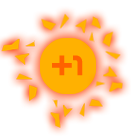
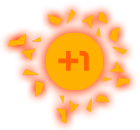
Ajout animation touch

diff --git a/core/src/com/borombo/game/Sprites/SimpleCircle.java b/core/src/com/borombo/game/Sprites/SimpleCircle.java
@@ -1,32 +1,56 @@
 package com.borombo.game.Sprites;
 
 import com.badlogic.gdx.graphics.Texture;
+import com.badlogic.gdx.graphics.g2d.*;
 import com.badlogic.gdx.math.Vector3;
+import com.badlogic.gdx.graphics.g2d.Animation;
+
+
 
 /**
  * Created by Erwan on 22/02/16.
  */
 public class SimpleCircle extends Circle {
 
-    public SimpleCircle(int x, int y) {
-        super(x, y);
-        this.texture = new Texture("cercle.png");
+    private static final float duree_animation = 0.15f;
+    private static final int nb_image_animation = 2;
+    private TextureRegion regionCourante;
+    private Animation animation;
+    private float temps;
+    private TextureRegion t2 = new TextureRegion(new Texture("+1.png"));
+    private TextureRegion t1 = new TextureRegion(new Texture("cercle.png"));
+
+
+    public SimpleCircle(Vector3 pos) {
+        super(pos);
+        temps = -1;
+        regionCourante = t1;
+    }
+
+    public  void touched(){
+        this.isTouched = true;
+        this.temps = 0;
+        this.regionCourante = t2;
     }
 
     @Override
     public void update(float dt) {
+        if (this.temps < duree_animation && this.temps != -1 && isTouched)
+            this.temps += dt;
 
+        if(this.temps >= duree_animation)
+            endAnimation();
     }
 
-    @Override
-    public void touched() {
-
+    public void endAnimation(){
+        this.temps = -1;
+        isTouched = false;
+        this.regionCourante = t1;
+        setPosition();
     }
 
-    @Override
-    public void setPosition(Vector3 pos) {
 
-        this.position = pos;
-    }
+    public TextureRegion getRegionCourante(){ return this.regionCourante; }
+
 
 }

diff --git a/core/src/com/borombo/game/States/GameStateDemo.java b/core/src/com/borombo/game/States/GameStateDemo.java
@@ -13,28 +13,23 @@ import java.util.Random;
 /**
  * Created by Erwan on 21/02/2016.
  */
-public class GameStateDemo extends  State {
+public class GameStateDemo extends State {
     private Texture background;
     private SimpleCircle circle;
     private RedBackground rbg;
-    private Random random;
 
     public GameStateDemo(GameStateManager gsm) {
         super(gsm);
         rbg = new RedBackground();
-        circle = new SimpleCircle(100, 300);
-        random = new Random();
+        Vector3 pos = new Vector3(100, 300, 0);
+        circle = new SimpleCircle(pos);
     }
 
     @Override
     protected void handleInput() {
         if (Gdx.input.justTouched()){
-            System.out.println("Position x clique : " + Gdx.input.getX());
-            System.out.println("Position y clique : " + Gdx.input.getY());
-            Vector3 pos = new Vector3(random.nextInt(400), random.nextInt(640), 0);
-            System.out.println("New x : " + pos.x);
-            System.out.println("New y : " + pos.y);
-            circle.setPosition(pos);
+            this.circle.touched();
+
         }
     }
 
@@ -48,7 +43,7 @@ public class GameStateDemo extends  State {
     public void render(SpriteBatch sb) {
         sb.begin();
         sb.draw(rbg.getTexture(), 0, 0, ClickMoreDemo.WHIDTH, ClickMoreDemo.HEIGHT);
-        sb.draw(circle.getTexture(), circle.getPosition().x, circle.getPosition().y);
+        sb.draw(circle.getRegionCourante(), circle.getPosition().x, circle.getPosition().y);
 
         sb.end();
     }

diff --git a/core/src/com/borombo/game/Sprites/Circle.java b/core/src/com/borombo/game/Sprites/Circle.java
@@ -3,6 +3,8 @@ package com.borombo.game.Sprites;
 import com.badlogic.gdx.graphics.Texture;
 import com.badlogic.gdx.math.Vector3;
 
+import java.util.Random;
+
 /**
  * Created by Erwan on 22/02/16.
  */
@@ -11,18 +13,22 @@ public abstract class Circle {
     protected Vector3 position;
     protected Texture texture;
     protected boolean isTouched = false;
+    protected Random random;
 
-    public Circle(int x, int y){
-        position = new Vector3(x, y, 0);
+
+    public Circle(Vector3 pos){
+        position = pos;
+        random = new Random();
     }
 
     public void update(float dt) {
 
     }
 
-    public abstract void touched();
-
-    public void setPosition(Vector3 pos) {
+    public void setPosition() {
+        Vector3 pos = new Vector3(random.nextInt(340), random.nextInt(610), 0);
+        System.out.println("Position x : " + pos.x);
+        System.out.println("Position y : " + pos.y);
         position = pos;
     }
 
